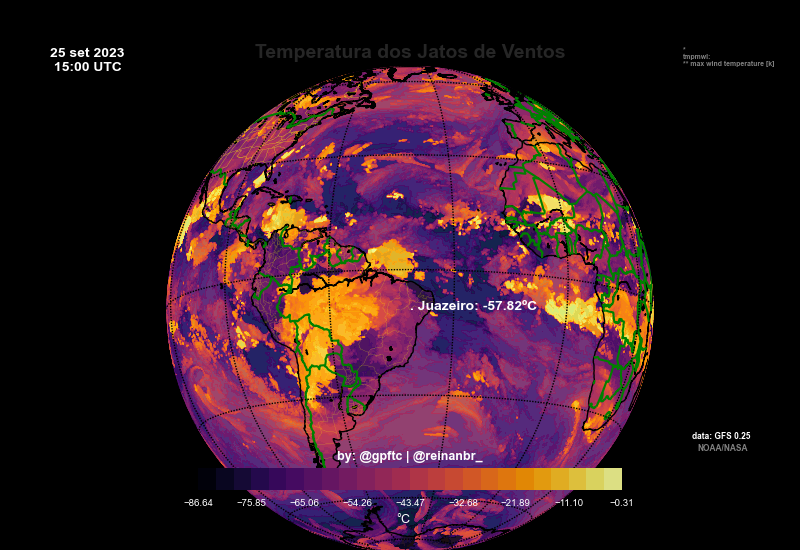
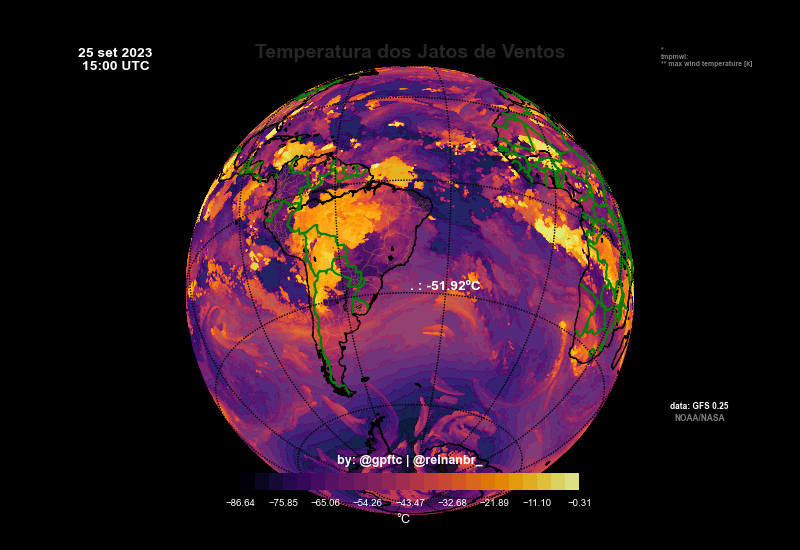
update

diff --git a/noaawc/plot.py b/noaawc/plot.py
@@ -144,7 +144,7 @@ class plot_global:
         #cm1=plt.contourf(x,y,data1,100,shading='nearest',cmap=plt.get_cmap('inferno'))
         #plt.cla()
         #plt.clf()
-        self.cbar=self.plt.colorbar(self.cm,orientation='horizontal',fraction=0.05,pad=-0.2)
+        self.cbar=self.plt.colorbar(self.cm,orientation='horizontal',fraction=0.04,pad=-0.1)
         self.cbar.ax.tick_params(labelsize=7) 
         #self.m.bluemarble()
         self.m.drawcoastlines()

diff --git a/global.py b/global.py
@@ -17,8 +17,8 @@ pg.title=f'Temperatura dos Jatos de Ventos'
 pg.key_noaa='tmpmwl'
 pg.indice=indice
 
-pg.loc_focus=(-9.43847,-40.5052)
-pg.annotate_data_focus('. Juazeiro: %(data)sºC')
+pg.loc_focus=(-29.43847,-40.5052)
+pg.annotate_data_focus('. : %(data)sºC')
 pg.annotate_color_focus = 'white'
 
 pg.text_cb='°C'
